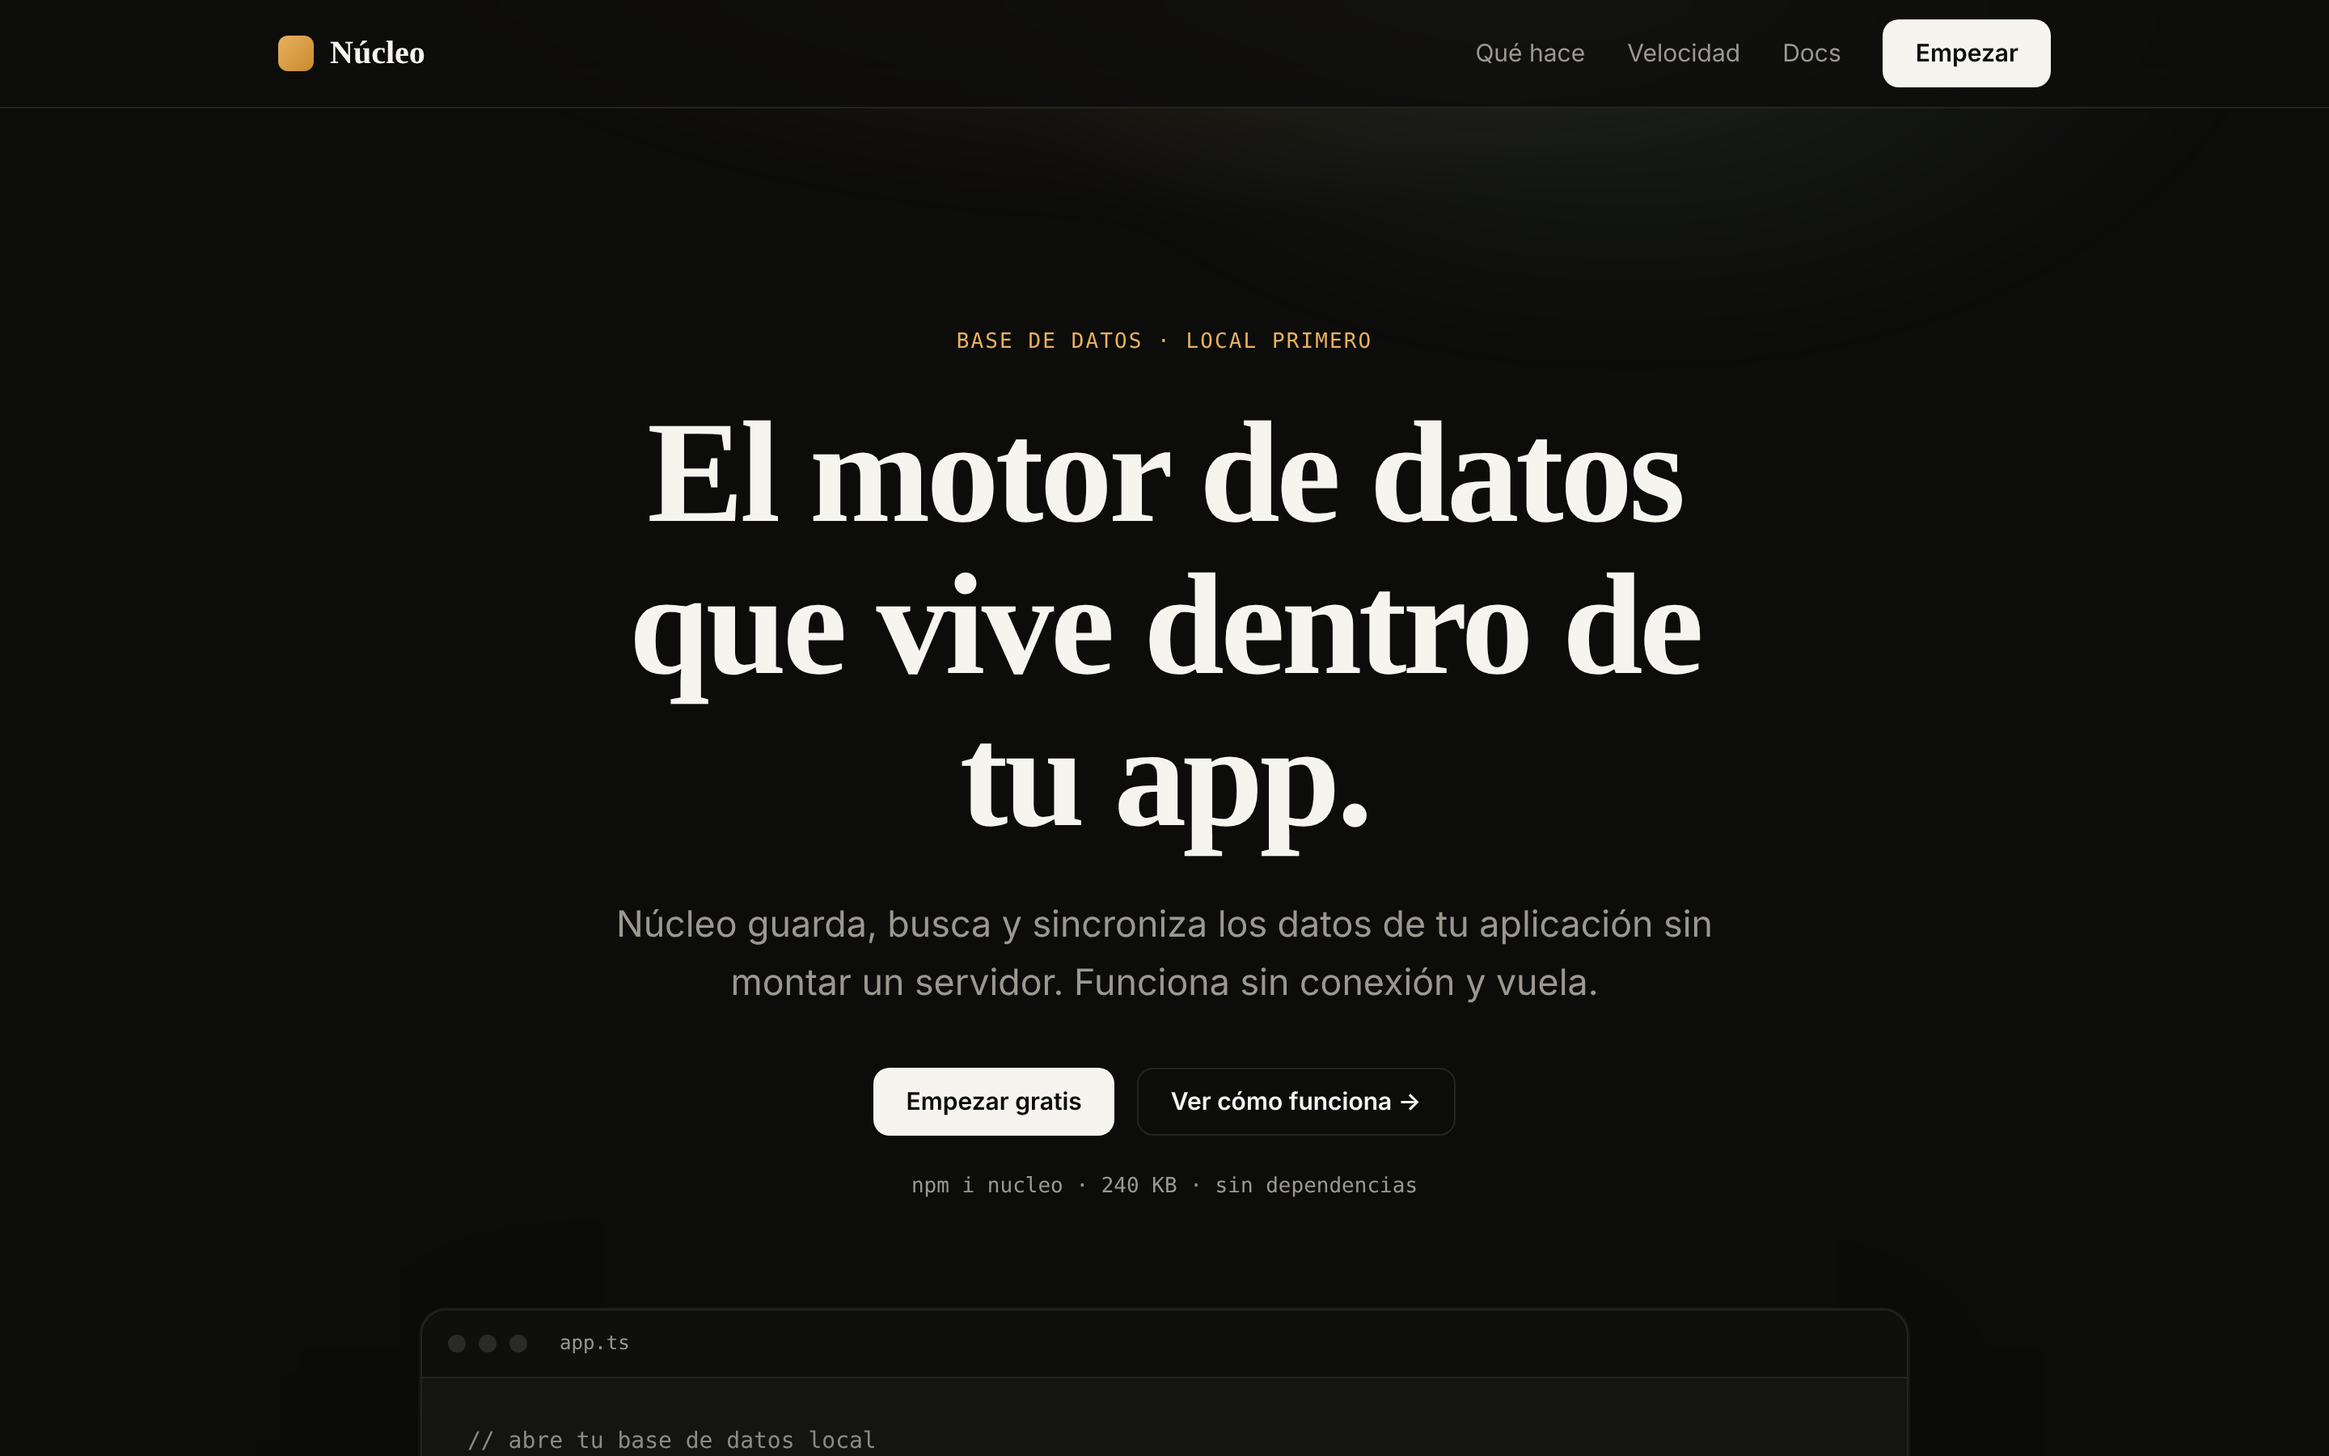
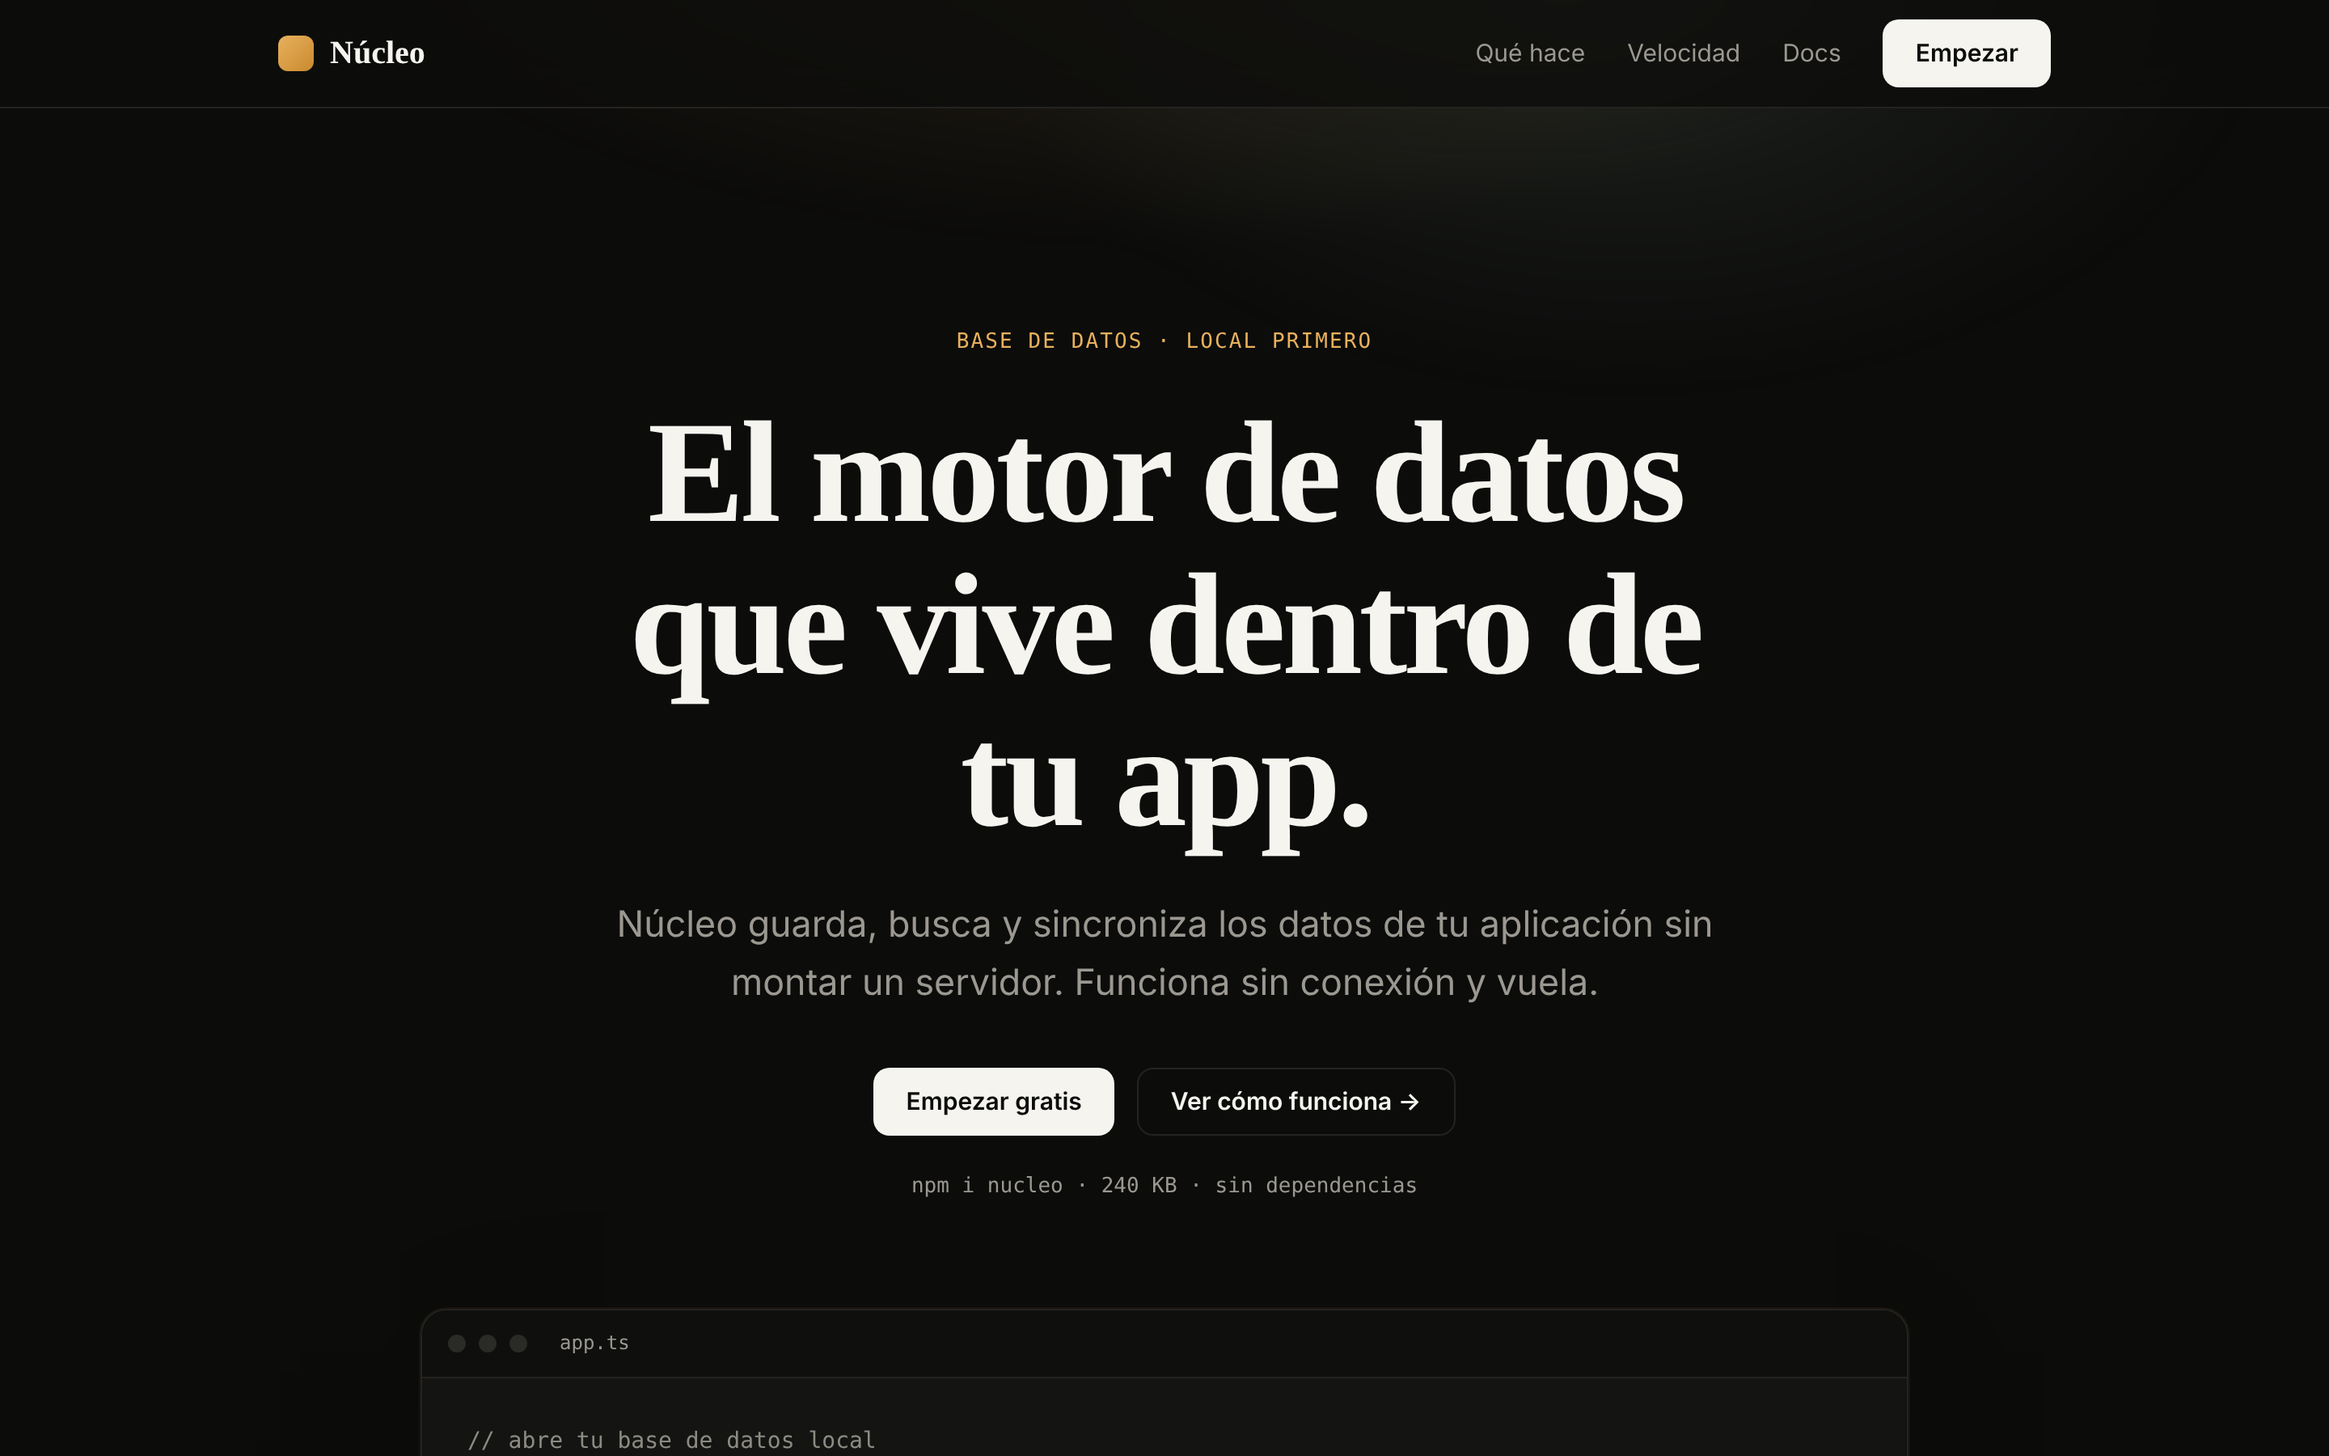
Folio 0.3.0 — módulo de movimiento propio (apariciones, parallax, contadores, scroll suave) sin librerías

diff --git a/assets/folio-motion.js b/assets/folio-motion.js
@@ -1,0 +1,143 @@
+/* folio-motion.js — el movimiento de Folio. Sin librerías, sin dependencias.
+ *
+ * Da el mismo "feel" de las buenas webs: scroll suave, apariciones al bajar
+ * (con escalonado), parallax sutil, contadores que suben y una entrada del
+ * héroe al cargar. Todo con data-atributos; respeta prefers-reduced-motion.
+ *
+ *   <script src="folio-motion.js" defer></script>
+ *
+ * Atributos (se pueden combinar, separados por espacio):
+ *   data-folio="aparece"          aparece al entrar en la vista (fade + subida)
+ *   data-folio="entrada"          aparece al cargar (para el héroe)
+ *   data-folio="parallax" data-velocidad="0.2"   se mueve despacio al hacer scroll
+ *   data-folio="contador" data-fin="12000" data-sufijo="M"   cuenta hacia arriba
+ *   data-retraso="120"            retrasa su aparición (ms); si no, se escalona solo
+ *
+ * Scroll suave (opcional): Folio.motion({ scrollSuave: true })
+ */
+(function () {
+  "use strict";
+  const reduce = matchMedia("(prefers-reduced-motion: reduce)").matches;
+
+  // CSS propio, inyectado una vez.
+  const css = `
+  [data-folio~="aparece"],[data-folio~="entrada"]{opacity:0;transform:translateY(14px);
+    transition:opacity .7s cubic-bezier(.2,.6,.2,1),transform .7s cubic-bezier(.2,.6,.2,1);will-change:opacity,transform}
+  [data-folio~="aparece"].folio-on,[data-folio~="entrada"].folio-on{opacity:1;transform:none}
+  @media (prefers-reduced-motion: reduce){
+    [data-folio~="aparece"],[data-folio~="entrada"]{opacity:1!important;transform:none!important;transition:none!important}
+    html.folio-suave{scroll-behavior:auto!important}
+  }`;
+  const estilo = document.createElement("style");
+  estilo.textContent = css;
+  document.head.appendChild(estilo);
+
+  function listo(fn) {
+    if (document.readyState !== "loading") fn();
+    else document.addEventListener("DOMContentLoaded", fn);
+  }
+
+  // ── Apariciones al entrar en la vista, con escalonado por hermanos ───────
+  function apariciones() {
+    const items = [...document.querySelectorAll('[data-folio~="aparece"]')];
+    if (reduce) { items.forEach((e) => e.classList.add("folio-on")); return; }
+    const io = new IntersectionObserver((ents) => {
+      ents.forEach((e) => {
+        if (!e.isIntersecting) return;
+        const el = e.target;
+        const propio = el.dataset.retraso;
+        const idx = propio != null ? 0 : [...el.parentElement.children].filter((c) => c.matches('[data-folio~="aparece"]')).indexOf(el);
+        el.style.transitionDelay = (propio != null ? +propio : Math.min(idx, 6) * 70) + "ms";
+        el.classList.add("folio-on");
+        io.unobserve(el);
+      });
+    }, { threshold: 0.12, rootMargin: "0px 0px -8% 0px" });
+    items.forEach((e) => io.observe(e));
+  }
+
+  // ── Entrada del héroe al cargar ──────────────────────────────────────────
+  function entrada() {
+    const items = [...document.querySelectorAll('[data-folio~="entrada"]')];
+    if (reduce) { items.forEach((e) => e.classList.add("folio-on")); return; }
+    items.forEach((el, i) => {
+      el.style.transitionDelay = (80 + i * 90) + "ms";
+      requestAnimationFrame(() => requestAnimationFrame(() => el.classList.add("folio-on")));
+    });
+  }
+
+  // ── Parallax sutil ───────────────────────────────────────────────────────
+  function parallax() {
+    const items = [...document.querySelectorAll('[data-folio~="parallax"]')];
+    if (reduce || items.length === 0) return;
+    let activo = false;
+    function pintar() {
+      activo = false;
+      const vh = innerHeight;
+      for (const el of items) {
+        const r = el.getBoundingClientRect();
+        const centro = r.top + r.height / 2 - vh / 2;
+        const v = parseFloat(el.dataset.velocidad || "0.15");
+        el.style.transform = `translate3d(0, ${(-centro * v).toFixed(1)}px, 0)`;
+      }
+    }
+    addEventListener("scroll", () => { if (!activo) { activo = true; requestAnimationFrame(pintar); } }, { passive: true });
+    pintar();
+  }
+
+  // ── Contadores ───────────────────────────────────────────────────────────
+  function contadores() {
+    const items = [...document.querySelectorAll('[data-folio~="contador"]')];
+    if (items.length === 0) return;
+    const fmt = (n) => n.toLocaleString("es-CL");
+    const io = new IntersectionObserver((ents) => {
+      ents.forEach((e) => {
+        if (!e.isIntersecting) return;
+        const el = e.target; io.unobserve(el);
+        const fin = parseFloat(el.dataset.fin || "0");
+        const suf = el.dataset.sufijo || "";
+        const pre = el.dataset.prefijo || "";
+        if (reduce) { el.textContent = pre + fmt(fin) + suf; return; }
+        const dur = 1100, t0 = performance.now();
+        (function paso(t) {
+          const p = Math.min(1, (t - t0) / dur);
+          const e2 = 1 - Math.pow(1 - p, 3); // easeOutCubic
+          el.textContent = pre + fmt(Math.round(fin * e2)) + suf;
+          if (p < 1) requestAnimationFrame(paso);
+        })(t0);
+      });
+    }, { threshold: 0.6 });
+    items.forEach((e) => io.observe(e));
+  }
+
+  // ── Scroll suave (opcional, tipo Lenis pero propio y mínimo) ──────────────
+  function scrollSuave() {
+    if (reduce) return;
+    document.documentElement.classList.add("folio-suave");
+    let objetivo = scrollY, actual = scrollY, corriendo = false;
+    const lerp = 0.12;
+    function loop() {
+      actual += (objetivo - actual) * lerp;
+      if (Math.abs(objetivo - actual) < 0.5) { actual = objetivo; corriendo = false; }
+      else requestAnimationFrame(loop);
+      window.scrollTo(0, actual);
+    }
+    addEventListener("wheel", (e) => {
+      e.preventDefault();
+      objetivo = Math.max(0, Math.min(objetivo + e.deltaY, document.body.scrollHeight - innerHeight));
+      if (!corriendo) { corriendo = true; actual = scrollY; requestAnimationFrame(loop); }
+    }, { passive: false });
+  }
+
+  const API = {
+    motion(opts = {}) {
+      listo(() => {
+        entrada(); apariciones(); parallax(); contadores();
+        if (opts.scrollSuave) scrollSuave();
+      });
+      return API;
+    },
+  };
+  window.Folio = Object.assign(window.Folio || {}, API);
+  // Auto-arranque (sin scroll suave; actívalo con Folio.motion({scrollSuave:true})).
+  if (!window.__folioManual) API.motion();
+})();

diff --git a/ejemplos/producto-oscuro.html b/ejemplos/producto-oscuro.html
@@ -95,9 +95,7 @@ h1,h2,h3{font-family:var(--serif);font-weight:600;letter-spacing:-.025em;line-he
 .pie .env{display:flex;justify-content:space-between;flex-wrap:wrap;gap:16px}
 .pie a:hover{color:var(--tinta)}
 
-.aparece{opacity:0;transform:translateY(10px);transition:opacity .7s var(--curva),transform .7s var(--curva)}
-.aparece.on{opacity:1;transform:none}
-@media(prefers-reduced-motion:reduce){*{animation:none!important;transition:none!important}.aparece{opacity:1;transform:none}}
+@media(prefers-reduced-motion:reduce){*{animation:none!important;transition:none!important}}
 </style>
 </head>
 <body>
@@ -115,18 +113,18 @@ h1,h2,h3{font-family:var(--serif);font-weight:600;letter-spacing:-.025em;line-he
 
 <main>
   <section class="hero">
-    <div class="resplandor" aria-hidden="true"></div>
+    <div class="resplandor" aria-hidden="true" data-folio="parallax" data-velocidad="0.06"></div>
     <div class="env">
-      <span class="eyebrow">Base de datos · local primero</span>
-      <h1>El motor de datos que vive dentro de tu app.</h1>
-      <p class="sub">Núcleo guarda, busca y sincroniza los datos de tu aplicación sin montar un servidor. Funciona sin conexión y vuela.</p>
-      <div class="cta">
+      <span class="eyebrow" data-folio="entrada">Base de datos · local primero</span>
+      <h1 data-folio="entrada">El motor de datos que vive dentro de tu app.</h1>
+      <p class="sub" data-folio="entrada">Núcleo guarda, busca y sincroniza los datos de tu aplicación sin montar un servidor. Funciona sin conexión y vuela.</p>
+      <div class="cta" data-folio="entrada">
         <a href="#" class="boton primario">Empezar gratis</a>
         <a href="#features" class="boton linea">Ver cómo funciona →</a>
       </div>
-      <p class="nota">npm i nucleo · 240 KB · sin dependencias</p>
+      <p class="nota" data-folio="entrada">npm i nucleo · 240 KB · sin dependencias</p>
 
-      <div class="mockup" aria-hidden="true">
+      <div class="mockup" aria-hidden="true" data-folio="entrada">
         <div class="barra"><i></i><i></i><i></i><span>app.ts</span></div>
 <pre><span class="c-com">// abre tu base de datos local</span>
 <span class="c-key">const</span> db = <span class="c-fn">nucleo</span>(<span class="c-str">"mi-app"</span>)
@@ -156,7 +154,7 @@ h1,h2,h3{font-family:var(--serif);font-weight:600;letter-spacing:-.025em;line-he
         <p>Todo lo que una base de datos necesita, dentro de tu app, sin servidores que mantener.</p>
       </div>
       <div class="rej">
-        <div class="card alta aparece">
+        <div class="card alta" data-folio="aparece">
           <div>
             <h3>Búsqueda por significado</h3>
             <p>Encuentra lo que quieres decir, no solo las palabras exactas. Núcleo entiende el sentido y trae lo cercano, aunque esté escrito distinto.</p>
@@ -173,8 +171,8 @@ h1,h2,h3{font-family:var(--serif);font-weight:600;letter-spacing:-.025em;line-he
             </g>
           </svg>
         </div>
-        <div class="card aparece"><div class="grande">0.4<span style="font-size:.5em">ms</span></div><h3>Rápido de verdad</h3><p>Consultas locales en microsegundos. Sin viajes a la red, sin esperas.</p></div>
-        <div class="card aparece"><h3>Local primero</h3><p>Los datos viven en el equipo. Funciona sin conexión y sincroniza cuando vuelve.</p></div>
+        <div class="card" data-folio="aparece"><div class="grande">0.4<span style="font-size:.5em">ms</span></div><h3>Rápido de verdad</h3><p>Consultas locales en microsegundos. Sin viajes a la red, sin esperas.</p></div>
+        <div class="card" data-folio="aparece"><h3>Local primero</h3><p>Los datos viven en el equipo. Funciona sin conexión y sincroniza cuando vuelve.</p></div>
       </div>
     </div>
   </section>
@@ -182,9 +180,9 @@ h1,h2,h3{font-family:var(--serif);font-weight:600;letter-spacing:-.025em;line-he
   <section class="cifras" id="cifras">
     <div class="env">
       <div class="rej">
-        <div class="aparece"><div class="n"><b>240</b> KB</div><div class="e">Pesa menos que una foto. Cero dependencias.</div></div>
-        <div class="aparece"><div class="n"><b>12M</b></div><div class="e">Registros buscados por segundo en un portátil.</div></div>
-        <div class="aparece"><div class="n"><b>0</b></div><div class="e">Servidores que montar, pagar o mantener.</div></div>
+        <div data-folio="aparece"><div class="n"><b data-folio="contador" data-fin="240" data-sufijo=" KB">0 KB</b></div><div class="e">Pesa menos que una foto. Cero dependencias.</div></div>
+        <div data-folio="aparece"><div class="n"><b data-folio="contador" data-fin="12" data-sufijo="M">0M</b></div><div class="e">Registros buscados por segundo en un portátil.</div></div>
+        <div data-folio="aparece"><div class="n"><b>0</b></div><div class="e">Servidores que montar, pagar o mantener.</div></div>
       </div>
     </div>
   </section>
@@ -204,9 +202,6 @@ h1,h2,h3{font-family:var(--serif);font-weight:600;letter-spacing:-.025em;line-he
   </div>
 </footer>
 
-<script>
-const io=new IntersectionObserver((es)=>es.forEach(e=>{if(e.isIntersecting){e.target.classList.add('on');io.unobserve(e.target)}}),{threshold:.12});
-document.querySelectorAll('.aparece').forEach((el,i)=>{el.style.transitionDelay=(i%3*60)+'ms';io.observe(el)});
-</script>
+<script src="../assets/folio-motion.js" defer></script>
 </body>
 </html>

diff --git a/SKILL.md b/SKILL.md
@@ -78,9 +78,22 @@ Chrome/Chromium (sin APIs ni llaves). Un solo comando: `node scripts/folio.mjs <
 ## Movimiento
 
 El movimiento en Folio es casi invisible: entra para aclarar, no para lucirse.
-Apariciones suaves al bajar (fade + 8px hacia arriba), transiciones de
-150–250ms con una curva tranquila. Nada rebota, nada gira, nada parpadea.
-Respeta `prefers-reduced-motion`.
+Apariciones suaves al bajar (fade + subida), transiciones tranquilas. Nada
+rebota, nada gira, nada parpadea. Respeta `prefers-reduced-motion`.
+
+Para lograrlo sin pelear con CSS, **usa el módulo propio `assets/folio-motion.js`**
+(sin librerías). Un solo `<script src="folio-motion.js" defer></script>` y luego
+marcas con data-atributos:
+
+- `data-folio="entrada"` — aparece al cargar, escalonado (para el héroe).
+- `data-folio="aparece"` — aparece al entrar en la vista (se escalona solo entre
+  hermanos; `data-retraso="120"` para forzar un retraso en ms).
+- `data-folio="parallax" data-velocidad="0.15"` — se mueve despacio al hacer scroll.
+- `data-folio="contador" data-fin="12000" data-sufijo="M"` — cuenta hacia arriba.
+
+Para scroll suave (tipo mantequilla), llama `Folio.motion({ scrollSuave: true })`.
+Todo se apaga solo con `prefers-reduced-motion`. Copia `folio-motion.js` a tu
+proyecto y enlázalo; es el mismo «feel» de las buenas webs, pero tuyo y ligero.
 
 ## Imágenes
 

diff --git a/CHANGELOG.md b/CHANGELOG.md
@@ -1,5 +1,10 @@
 # Cambios
 
+## 0.3.0
+
+- **Movimiento propio (`assets/folio-motion.js`)**, sin librerías: apariciones al bajar con escalonado, entrada del héroe, parallax sutil, contadores y scroll suave opcional. El mismo "feel" de las buenas webs (scroll suave + reveals), pero ligero y con `prefers-reduced-motion`.
+- **Ejemplo de producto oscuro** (hero dramático, mockup con luz, diagrama y cifras animadas) y showcase en el README.
+
 ## 0.2.0
 
 Folio deja de ser solo un criterio escrito y gana herramientas reales.
